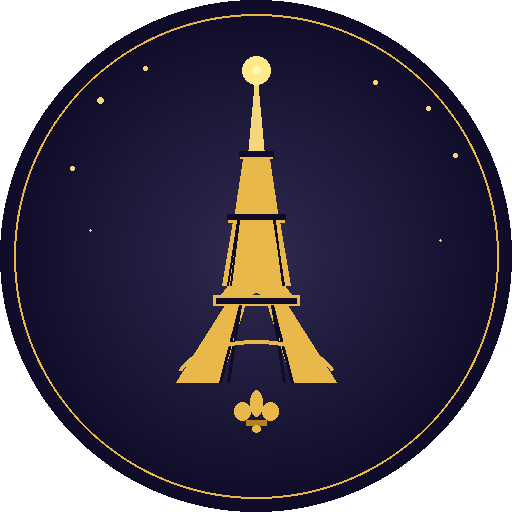
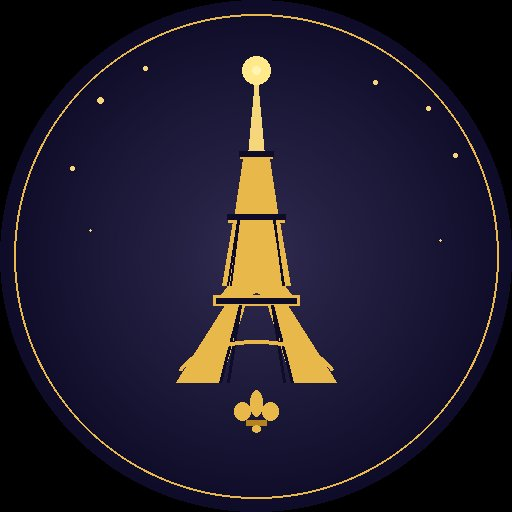
Add files via upload

diff --git a/index.html b/index.html
@@ -207,11 +207,19 @@
       ],
       "芒通": [
         { name:"芒通中央火車站", emoji:"🚉", tip:"備用版下車點，搭TER從尼斯約36分｜即La Navette接駁車起點站（Gare SNCF）", map:"Gare de Menton", lat:43.774473, lng:7.493328, tag:"景點" },
-        { name:"高克多博物館", emoji:"🏛️", tip:"Musée Jean Cocteau - Le Bastion，海濱舊堡壘改建，La Navette接駁車Bastion站下車", map:"Musée Jean Cocteau Le Bastion Menton", lat:43.774860, lng:7.508475, tag:"博物館" },
+        { name:"高克多博物館", emoji:"🏛️", tip:"Musée Jean Cocteau - Le Bastion，建於港口防波堤尖端的17世紀古堡壘，La Navette接駁車Bastion站下車", map:"Musée Jean Cocteau Le Bastion Menton", lat:43.774860, lng:7.508475, tag:"博物館" },
         { name:"聖米歇爾大教堂", emoji:"⛪", tip:"經典黃色巴洛克老城大門", map:"Basilique Saint-Michel Archange Menton", lat:43.776913, lng:7.507118, tag:"教堂" },
         { name:"Sablettes 海灘", emoji:"🏖️", tip:"明信片取景點，捕捉彩色老城全景", map:"Plage des Sablettes Menton", lat:43.778468, lng:7.508196, tag:"必去" },
         { name:"市立市集 Marché des Halles", emoji:"🧺", tip:"老城區入口，露天咖啡廳喝咖啡、吃檸檬塔，亦為接駁車折返站", map:"Marché des Halles de Menton", lat:43.775246, lng:7.506216, tag:"市集" },
         { name:"特倫卡路 Rue Trenca", emoji:"🛍️", tip:"傳統商店街，回程可在此站搭La Navette返回火車站", map:"Rue Trenca Menton", lat:43.775374, lng:7.504812, tag:"購物" },
+        { name:"聖羅克禮拜堂", emoji:"⛪", tip:"接駁車沿線站點，鬧區中的寧靜小禮拜堂，未排入行程可順遊", map:"Chapelle Saint-Roch Menton", lat:43.774497, lng:7.500864, tag:"教堂" },
+        { name:"羅浮路站", emoji:"🚌", tip:"接駁車沿線站點，鄰阿爾貝一世花園，未排入行程", map:"Résidence du Louvre Menton", lat:43.776010, lng:7.496418, tag:"景點" },
+        { name:"碧歐維花園", emoji:"🍋", tip:"Jardins Biovès，接駁車沿線站點，每年檸檬節巨型雕塑展出地，2月最美", map:"Jardins Biovès Menton", lat:43.773279, lng:7.498378, tag:"景點" },
+        { name:"芒通賭場", emoji:"🎰", tip:"Casino Barrière Menton，接駁車沿線站點，濱海大道起點，建築外觀值得一拍", map:"Casino Barrière Menton", lat:43.772807, lng:7.498667, tag:"景點" },
+        { name:"瓦爾哈梅植物園", emoji:"🌿", tip:"Jardin botanique Val Rahmeh，老城北側私家植物園改建，門票約€8", map:"Jardin botanique Val Rahmeh Menton", lat:43.785480, lng:7.511595, tag:"景點" },
+        { name:"老城墓園", emoji:"⚰️", tip:"Cimetière du Vieux Château，沿樓梯登上老城頂端，270度俯瞰海港與山城全景，免費", map:"Cimetière du Vieux Château Menton", lat:43.778147, lng:7.505605, tag:"必去" },
+        { name:"太陽海濱步道", emoji:"🌅", tip:"Promenade du Soleil，沿海濱長廊散步，遠眺老城全景的最佳走法", map:"Promenade du Soleil Menton", lat:43.772210, lng:7.498037, tag:"景點" },
+        { name:"史前博物館", emoji:"🦴", tip:"Musée de Préhistoire Régionale，老城內小型考古博物館，門票約€6", map:"Musée de Préhistoire Régionale Menton", lat:43.776942, lng:7.503460, tag:"博物館" },
       ],
     };
 
@@ -241,7 +249,7 @@
       "7/06": { home:"64 Rue du Commerce Paris 75015", homeMode:"transit", mode:"transit", stops:["Cathedrale Notre-Dame de Paris","Le Marais Paris","Sacre-Coeur Montmartre Paris","Avenue des Champs-Elysees Paris","Arc de Triomphe Paris","64 Rue du Commerce Paris 75015"] },
       "7/07": { home:"64 Rue du Commerce Paris 75015", homeMode:"transit", mode:"transit", stops:["Gare de Paris-Lyon","51 Rue Honnorat Marseille 13003","Palais Longchamp Marseille","106 Quai du Port Marseille","174 Quai du Port Marseille","Notre-Dame de la Garde Marseille","51 Rue Honnorat Marseille 13003"] },
       "7/08": { home:"51 Rue Honnorat Marseille 13003", homeMode:"transit", mode:"transit", stops:["Gare Saint-Charles Marseille","Musee de la Lavande Coustellet","Palais des Papes Avignon","Pont Saint-Benezet Avignon","Festival d Avignon OFF","Gare Avignon TGV","51 Rue Honnorat Marseille 13003"] },
-      "7/09": { home:"51 Rue Honnorat Marseille 13003", homeMode:"walking", mode:"transit", stops:["Gare Routiere Saint-Charles Marseille","Nice Aeroport Terminal 2","2 Avenue des Fleurs Nice 06000","Cours Saleya Nice","Lou Pilha Leva 10 Rue du Collet Nice","Cathedrale Sainte-Reparate Nice","Confiserie Florian 14 Quai Papacino Nice","Place Garibaldi Nice","Promenade des Anglais Nice","Cours Saleya Nice","2 Avenue des Fleurs Nice 06000"] },
+      "7/09": { home:"51 Rue Honnorat Marseille 13003", homeMode:"walking", mode:"transit", stops:["Gare Routiere Saint-Charles Marseille","Nice Aeroport Terminal 1","2 Avenue des Fleurs Nice 06000","Cours Saleya Nice","Lou Pilha Leva 10 Rue du Collet Nice","Cathedrale Sainte-Reparate Nice","Confiserie Florian 14 Quai Papacino Nice","Place Garibaldi Nice","Promenade des Anglais Nice","Cours Saleya Nice","2 Avenue des Fleurs Nice 06000"] },
       "7/10": { home:"2 Avenue des Fleurs Nice 06000", homeMode:"walking", mode:"walking", stops:["Gare de Nice-Ville","Gare de Cannes","Palais des Festivals Cannes","5 Rue Venizelos Cannes","Le Suquet Cannes","Marche Forville Cannes","Plage de Cannes","Rue Antibes Cannes","2 Avenue des Fleurs Nice 06000"] },
       "7/11": { home:"2 Avenue des Fleurs Nice 06000", homeMode:"transit", mode:"walking", stops:["Musee Chagall Nice","Avenue Jean Medecin Nice","Cathedrale Notre-Dame de Nice","Vieux Nice","Place Massena Nice","Colline du Chateau Nice","Promenade des Anglais Nice","2 Avenue des Fleurs Nice 06000"] },
       "7/11B": { home:"2 Avenue des Fleurs Nice 06000", homeMode:"walking", mode:"transit", stops:["Musee Chagall Nice","Avenue Jean Medecin Nice","Cathedrale Notre-Dame de Nice","Place Massena Nice","Vieux Nice","Parc de la Colline du Chateau Nice","Point de vue Colline du Chateau Nice","Gare de Nice-Ville","Gare de Menton","Basilique Saint-Michel Archange Menton","Plage des Sablettes Menton","2 Avenue des Fleurs Nice 06000"] },
@@ -273,11 +281,11 @@
           {time:"09:35",icon:"✈️",content:"KL 2003（AF 1241）AMS → 巴黎 CDG T2F"},
           {time:"10:55",icon:"🏨",content:"抵達巴黎，搭RER B進城（兩人各自手機逼一下紫色感應區，自動優先扣除機場單程票）\n前往住宿整備\n📍 64 Rue du Commerce bâtiment B, Paris 75015｜🔑 大門密碼：43B72｜鑰匙盒：1904\n抵達市區出站後：原地開通「Navigo Liberté+」：App點Subscribe→自拍+填英文姓名+各自綁定不同海外信用卡\n傍晚起啟用全自動折扣（地鐵€2.04／公車€1.64），進站各自手機逼卡"},
           {time:"13:00",icon:"🎨",content:"奧賽博物館（Musée d'Orsay）\nKlook 門票已預訂，收藏莫內、梵谷、塞尚"},
+          {time:"15:00",icon:"🍽️",content:"午餐：Cocorico\n📍 法式傳統料理，奧賽博物館周邊",links:[{label:"Cocorico",url:"https://maps.app.goo.gl/mAj7TkwHqqk9oZcM8"}]},
           {time:"15:30",icon:"🗼",content:"步行至艾菲爾鐵塔（Tour Eiffel）周邊"},
           {time:"16:00",icon:"🛍️",content:"克雷爾路（Rue Cler）\n巴黎最美市集街，麵包、起司、花攤林立\n📍 Rue Cler, 75007 Paris"},
           {time:"16:45",icon:"🌿",content:"戰神廣場（Champ de Mars）\n艾菲爾鐵塔正前方草坪，絕佳拍攝角度"},
           {time:"18:00",icon:"🚢",content:"塞納河遊船（Bateaux Parisiens）1小時\n含中文語音導覽｜碼頭3號"},
-          {time:"15:00",icon:"🍽️",content:"午餐：Cocorico\n📍 法式傳統料理，奧賽博物館周邊",links:[{label:"Cocorico",url:"https://maps.app.goo.gl/mAj7TkwHqqk9oZcM8"}]},
           {time:"20:30",icon:"🍰",content:"Carette Trocadéro 甜點沙龍\n馬卡龍、閃電泡芙、熱可可｜Trocadéro 廣場旁\n⚠️ 夏季巴黎約 21:00 後才有餐廳開始供餐",links:[{label:"Carette",url:"https://www.google.com/maps/search/?api=1&query=Carette+Trocadero+Paris"}]},
           {time:"21:15",icon:"🍽️",content:"晚餐：鐵塔周邊（擇一）\n🚢 Francette（船屋餐廳）\n🥩 Bistrot Belhara（傳統法餐）",links:[{label:"Francette",url:"https://www.google.com/maps/search/?api=1&query=Francette+Paris"},{label:"Bistrot Belhara",url:"https://www.google.com/maps/search/?api=1&query=Bistrot+Belhara+Paris"}]},
         ],
@@ -385,8 +393,8 @@
         budget:[{item:"FlixBus 404（2人）",cost:"€30.95（已購）"},{item:"Lignes d'Azur 日票（App購買）",cost:"€7/人"},{item:"兒子單程票",cost:"€1.70"},{item:"Lou Pilha Leva午餐",cost:"~€10"},{item:"Fenocchio冰淇淋",cost:"~€4"},{item:"晚餐",cost:"~€20–30"}],
         schedule:[
           {time:"07:30",icon:"🚶",content:"馬賽住宿出發→步行12分至聖查爾斯巴士站\n（Gare Routière Saint-Charles，月台 1/2/3）"},
-          {time:"08:10",icon:"🚌",content:"FlixBus Route 404 馬賽→尼斯機場T2\n座位10C/10D｜訂位：3348248476｜車程約2h10m"},
-          {time:"10:20",icon:"🚃",content:"機場T2 → Grand Arénas 站（免費段）\n⭐ 同月台原地等下一班 L2（往 Port Lympia 方向）\n上車後嗶手機開啟日票（您€7，兒子€1.70單程）\n→ Alsace-Lorraine 站下車，步行1分鐘到住宿 ✅"},
+          {time:"08:10",icon:"🚌",content:"FlixBus Route 404 馬賽→尼斯機場T1\n座位10C/10D｜訂位：3348248476｜車程約2h10m"},
+          {time:"10:20",icon:"🚃",content:"機場T1 → Grand Arénas 站（免費段）\n⭐ 同月台原地等下一班 L2（往 Port Lympia 方向）\n上車後嗶手機開啟日票（您€7，兒子€1.70單程）\n→ Alsace-Lorraine 站下車，步行1分鐘到住宿 ✅"},
           {time:"11:15",icon:"🏨",content:"抵達住宿，房東允許提前放行李 ✅\n📍 2 Avenue des Fleurs, Nice 06000（Host Jean Paul）\n換上輕便隨身包，立刻出門！"},
           {time:"11:30",icon:"🚃",content:"回 Alsace-Lorraine 站，搭 L2 往 Port Lympia 方向\n坐3站到 Durandy 站下車\n出站後向南步行7分鐘直達舊城區"},
           {time:"11:45",icon:"🌸",content:"Cours Saleya 薩雷雅花市（週四至 13:00 ⚠️）\n空手穿梭花攤、普羅旺斯香料、薰衣草、蜂蜜、橄欖油\n⚠️ 注意扒手！"},
@@ -577,7 +585,7 @@
           {label:"✈️ KL1478 NCE→AMS 16:55–18:55｜訂位 KL/ZUO690"},
           {label:"✈️ KL807 AMS→TPE 20:15–14:55+1｜訂位 KL/ZUO690"},
         ],
-        tips:"最後採購：Ladurée馬卡龍、薰衣草精油、馬賽手工皂。機場免稅店也有！" },
+        tips:"最後採購：Ladurée馬卡龍、薰衣草精油、馬賽手工皂。機場免稅店也有！\n\n⚠️【轉機注意】AMS轉機窗口僅 1h20m（18:55抵達→20:15起飛）\n請準時登機，抵達AMS後快步直奔登機門，勿在免稅店流連！" },
 
       { date:"7/14",day:"週二",emoji:"🏠",title:"抵達台灣",city:"返台",mapQuery:"桃園國際機場第二航廈",
         weather:"🌧️ 台北 33°C｜歡迎回家！",

diff --git a/sw.js b/sw.js
@@ -2,8 +2,8 @@
 // ICFSN 2026 法國・摩納哥旅遊 — Service Worker
 // ═══════════════════════════════════════════════════════════════
 
-const CACHE_NAME = 'icfsn2026-v38';
-const RUNTIME_CACHE = 'icfsn2026-runtime-v38';
+const CACHE_NAME = 'icfsn2026-v40';
+const RUNTIME_CACHE = 'icfsn2026-runtime-v40';
 
 // 安裝時預先快取的核心資源
 const PRECACHE_URLS = [